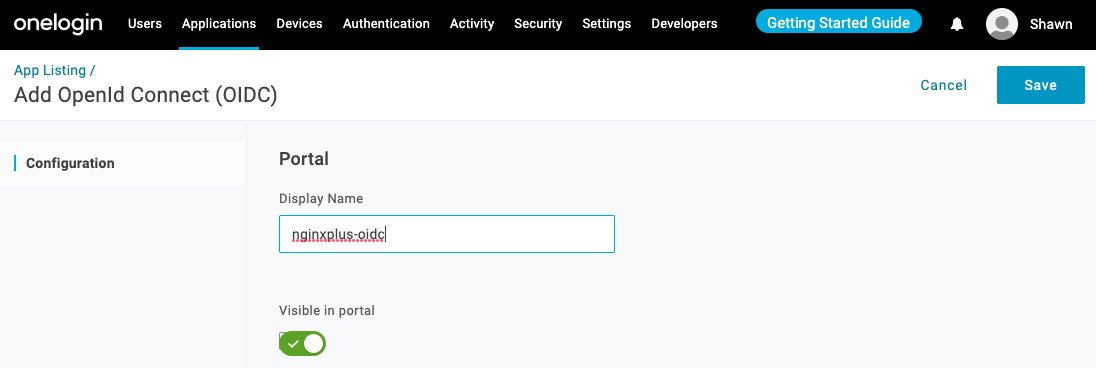
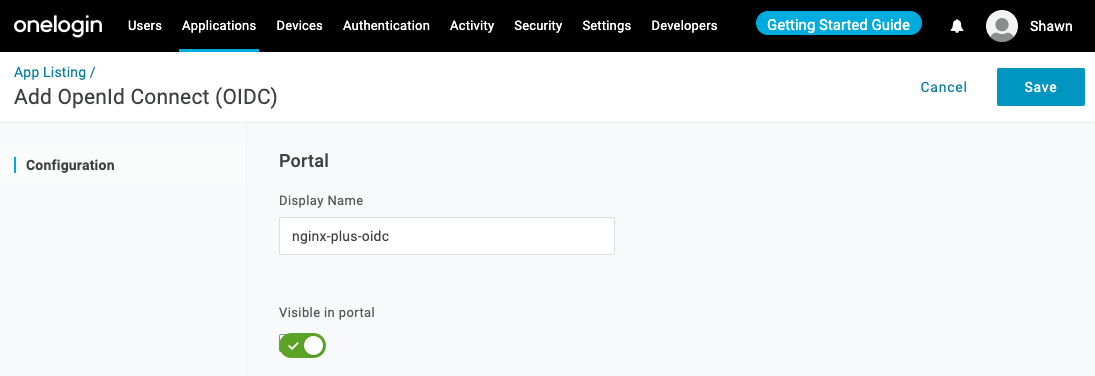
fix: app name for OneLogin

diff --git a/docs/02-NGINX-Plus-Setup.md b/docs/02-NGINX-Plus-Setup.md
@@ -17,7 +17,7 @@ Take the following steps to set up NGINX Plus as the OpenID Connect relying part
 
    ```nginx
     map $x_client_id $idp_domain {
-        # e.g., nginxplus-oidc.onelogin.com
+        # e.g., nginx-plus-oidc.onelogin.com
         default "{{Edit-IdP-Domain}}";
     }
 

diff --git a/docs/01-IdP-Setup.md b/docs/01-IdP-Setup.md
@@ -74,4 +74,6 @@ Create a new application for NGINX Plus in the OneLogin GUI:
 
    ![](./img/onelogin-role-menu.png)
 
+   ![](./img/onelogin-user-to-app.png)
+
    ![](./img/onelogin-role-to-app.png)
